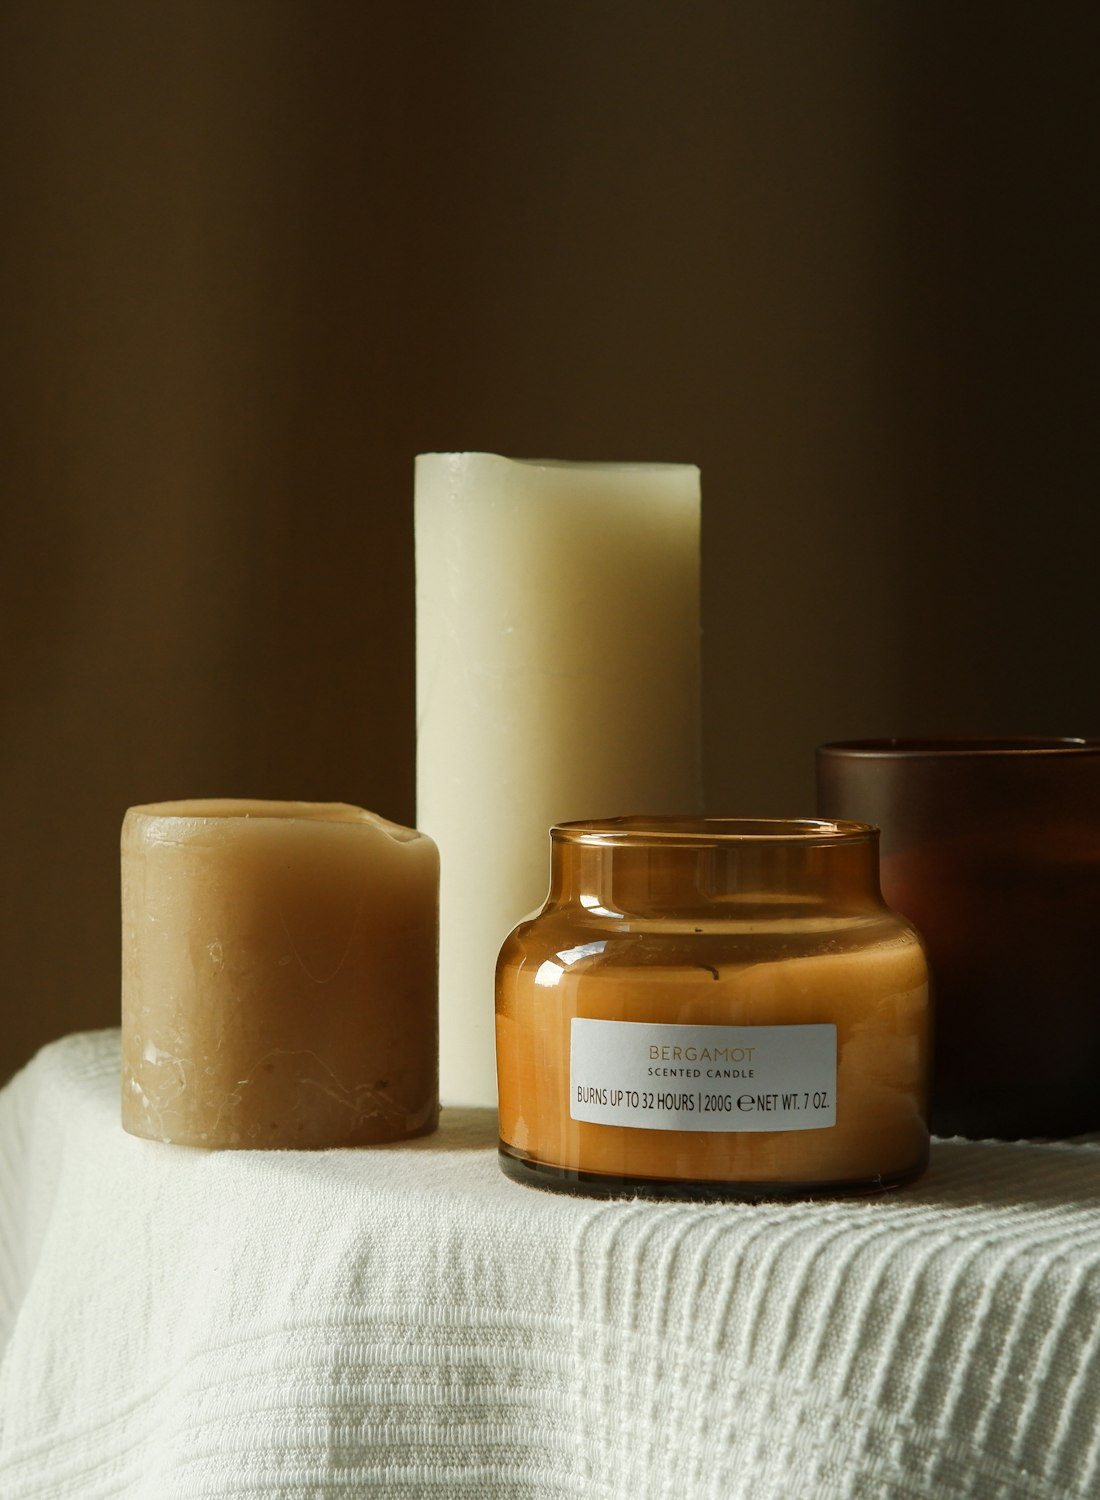
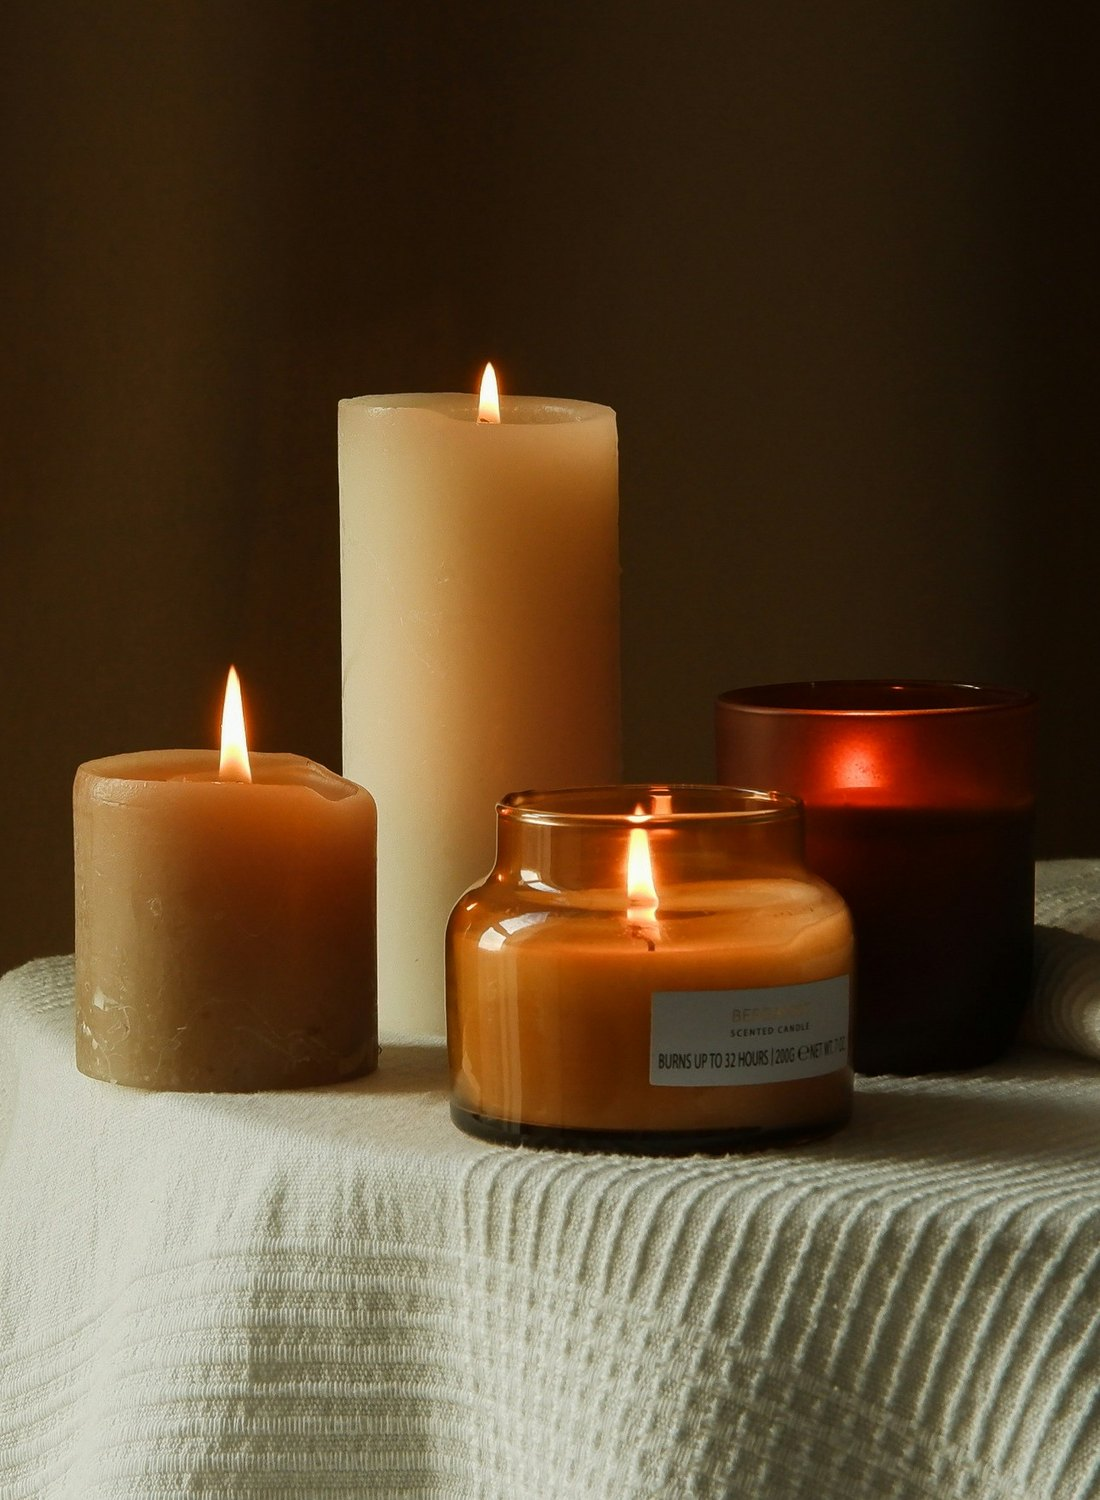
Главная: фото с горящими свечами

diff --git a/index.html b/index.html
@@ -16,8 +16,8 @@
 <!-- ===== 1. Первый экран ===== -->
 <div class="hero">
   <picture class="hero-bg">
-    <source media="(max-width:760px)" srcset="img/home/hero-candles-m.jpg">
-    <img class="stock" src="img/home/hero-candles-w.jpg" alt="Свечи на&nbsp;столе в&nbsp;тёплом свете">
+    <source media="(max-width:760px)" srcset="img/home/hero-candles-m.jpg?v=2">
+    <img class="stock" src="img/home/hero-candles-w.jpg?v=2" alt="Горящие свечи на&nbsp;столе в&nbsp;тёплом свете">
   </picture>
   <div class="hero-in">
     <div class="word" aria-hidden="true">
